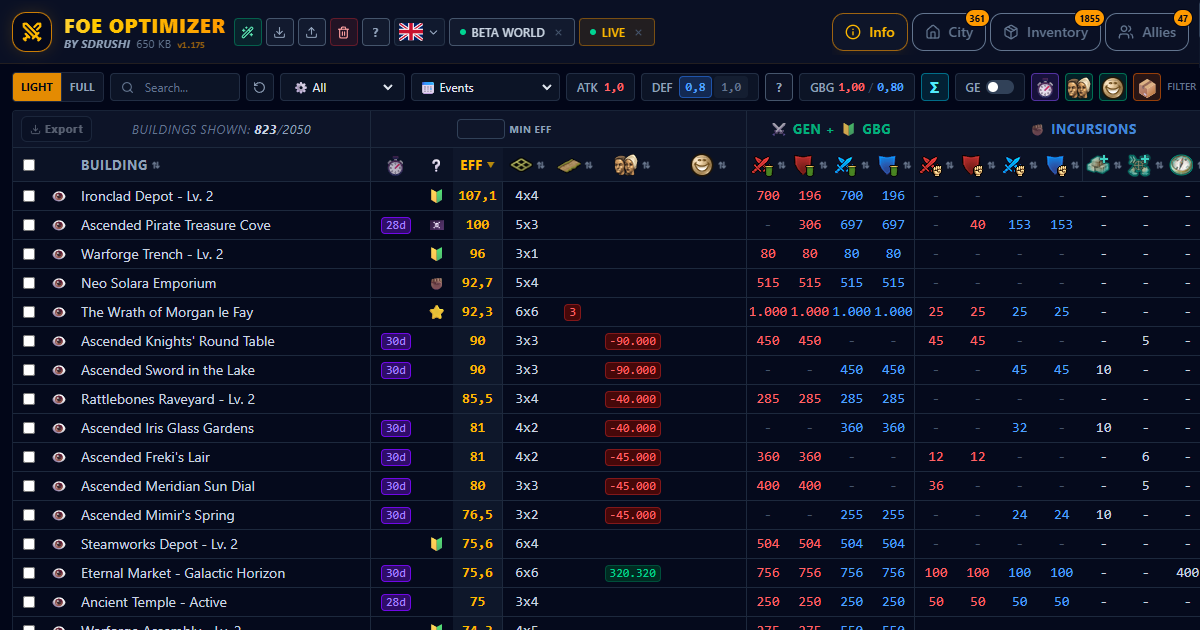
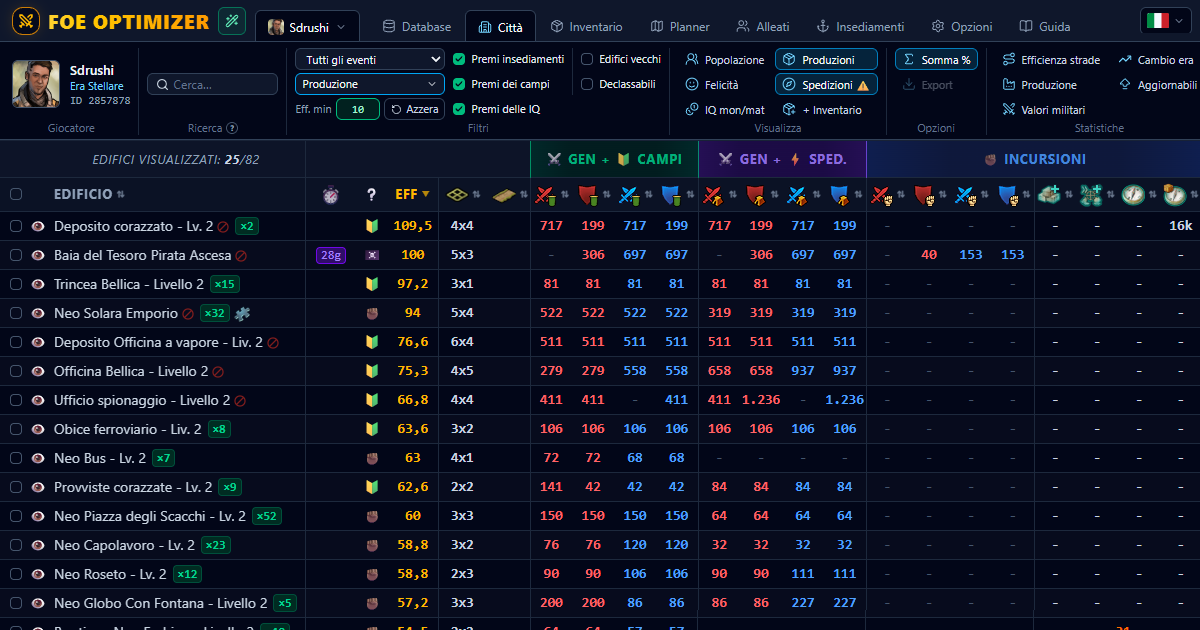
screenshot update

diff --git a/src/ui/Testata.tsx b/src/ui/Testata.tsx
@@ -96,7 +96,10 @@ export default function Testata({ scheda, onScheda, spente, citta, cittaAttiva, 
     <div ref={rif} className="sticky top-0 z-40 bg-slate-950 text-[12px]">
       {/* Riga delle schede, alta 42 px: logo, bacchetta, città e lingua centrati
           in verticale (h-7); le schede (h-8) poggiano sul nastro. */}
-      <div ref={rifRiga} className="flex h-[42px] items-end gap-px overflow-hidden border-b border-slate-700 bg-slate-900 px-2 whitespace-nowrap">
+      {/* la linea sotto le schede è un'ombra interna (non un bordo): la scheda attiva, con lo
+          sfondo del nastro, la copre e si fonde col nastro (col bordo, -mb-px veniva tagliato
+          da overflow-hidden e la linea restava visibile) */}
+      <div ref={rifRiga} className="flex h-[42px] items-end gap-px overflow-hidden bg-slate-900 px-2 whitespace-nowrap shadow-[inset_0_-1px_0_0_var(--color-slate-700)]">
         {/* Logo (spade), titolo in ambra, versione e bacchetta magica sempre a
             portata (clic = importa; trascinabile nella barra dei preferiti). */}
         <span className="mr-1 flex shrink-0 items-center gap-2 self-center px-1" title={versione}>
@@ -131,7 +134,7 @@ export default function Testata({ scheda, onScheda, spente, citta, cittaAttiva, 
             <button key={id} type="button" disabled={!!motivo} onClick={() => onScheda(id)}
               title={motivo ?? (soloIcone ? nome : "")} aria-label={nome}
               className={`flex h-8 shrink-0 items-center gap-1.5 rounded-t-md border border-b-0 ${soloIcone ? "px-2" : stretta ? "px-2 text-[11px]" : "px-3"} disabled:cursor-not-allowed disabled:opacity-35 ${
-                sel ? "-mb-px border-slate-700 bg-slate-950 text-slate-50" : "border-transparent text-slate-400 hover:text-slate-200"
+                sel ? "relative border-slate-700 bg-slate-950 text-slate-50" : "border-transparent text-slate-400 hover:text-slate-200"
               }`}>
               <Icona size={14} strokeWidth={1.75} className={sel ? "text-sky-300" : ""} aria-hidden="true" />
               {!soloIcone && nome}

diff --git a/docs/V2.md b/docs/V2.md
@@ -676,6 +676,8 @@ Visualizza.
 
 - Pubblicazione su GitHub Pages (decisione dell'utente: v2 unita in main, niente più Cloudflare): tolta la Pages Function `functions/video/` (GitHub Pages gestisce già le richieste a intervalli, il salto nei video funziona). I video restano in `public/video/`. Il workflow `.github/workflows/deploy.yml` (push su main → typecheck, lint, `npm run build`, pubblica `dist`) va già bene per la build a più file. `aggiorna_dati.py` ora copia i dati in `public/data/` del repo quando esiste (2.0, anche buildings_extra.csv, committato insieme agli altri), altrimenti nel vecchio `src/assets/`.
 
+- Testata: la scheda attiva non ha più la linea sotto e si fonde col nastro (la linea della riga delle schede è un'ombra interna, coperta dalla scheda attiva; prima il -mb-px veniva tagliato da overflow-hidden).
+
 ## Prossimi passi
 1. Nastro completo scheda per scheda (Database, Città, Inventario, Alleati,
    Planner, Insediamenti, Opzioni), togliendo man mano le vecchie barre.
